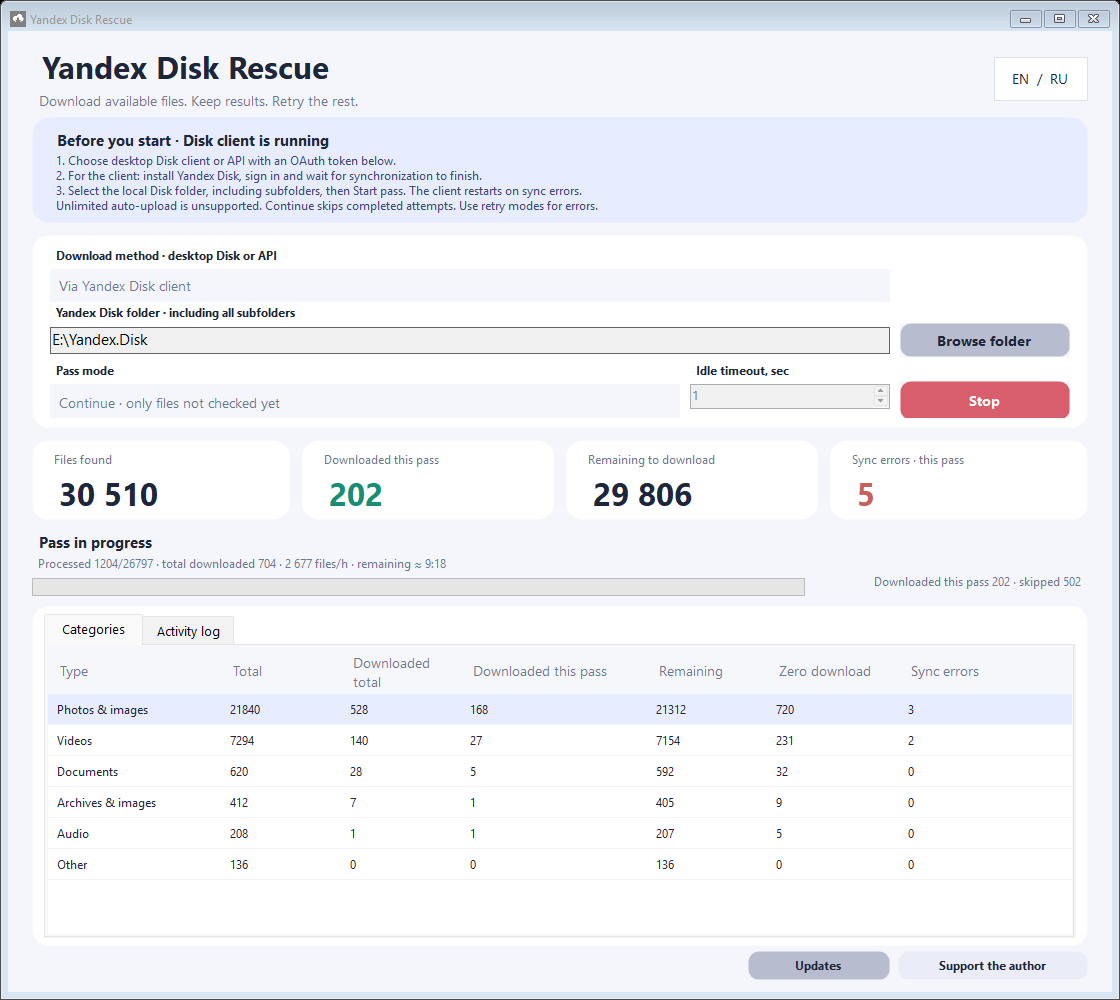
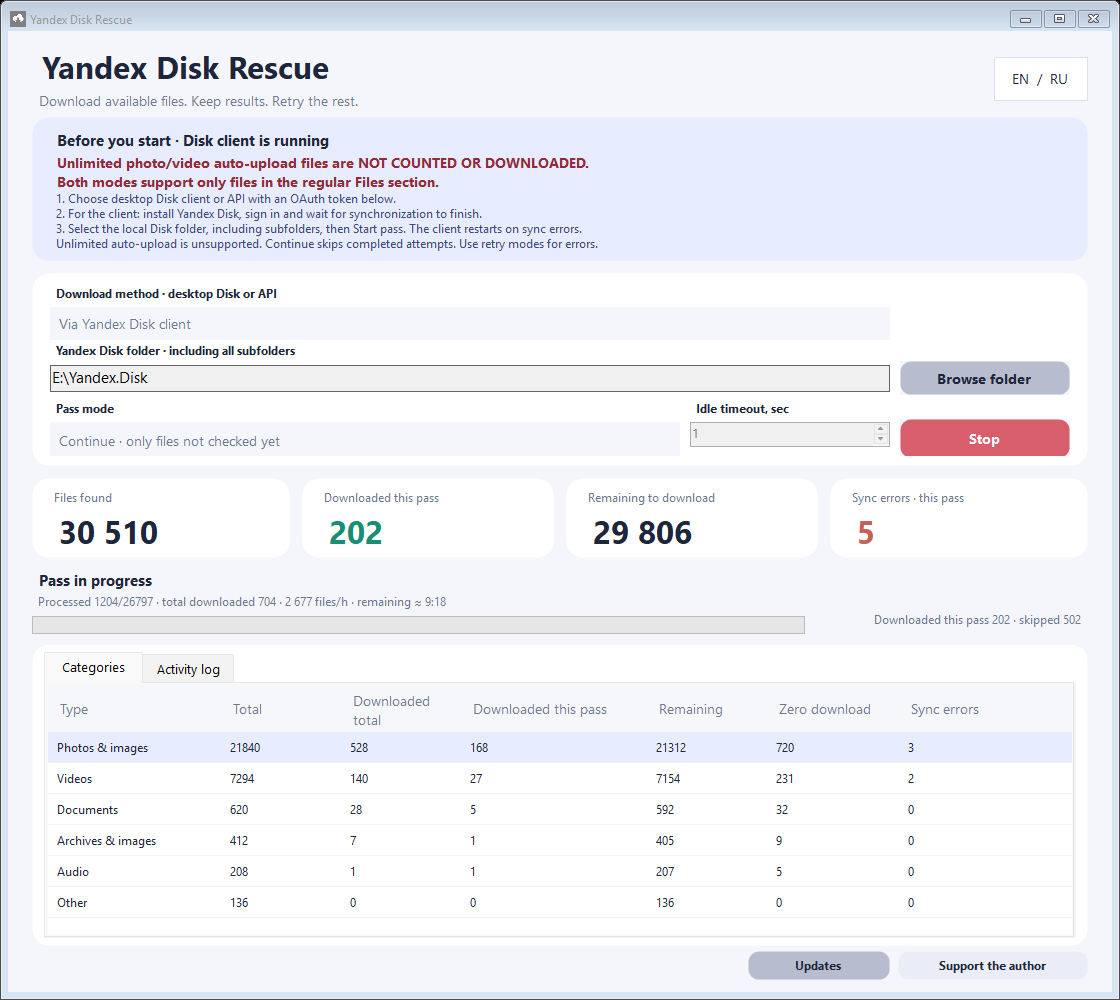
Release v0.2.0: OAuth API, cached inventory and resumable processing

diff --git a/src/MainForm.cs b/src/MainForm.cs
@@ -50,7 +50,7 @@ namespace DiskRescue {
         NumericUpDown idle;
         FlatButton browse, start, update, support;
         Button language;
-        Label subtitle, guideTitle, guideText, folderCaption, modeCaption, idleCaption, phase, detail, available, footer;
+        Label subtitle, guideTitle, guideText, unlimitedWarning, folderCaption, modeCaption, idleCaption, phase, detail, available, footer;
         Label modeReadout, methodReadout;
         LinkLabel tokenHelp;
         Label apiListCaption, apiListReadout;
@@ -83,7 +83,7 @@ namespace DiskRescue {
         RoundPanel Card() { return new RoundPanel { Dock=DockStyle.Fill, Margin=new Padding(0,0,0,12) }; }
         void Build() {
             TableLayoutPanel page=Table(1);pageGrid=page; page.Padding=new Padding(24,14,24,12); page.RowCount=7;
-            foreach(float h in new float[]{72,118,150,90,76}) page.RowStyles.Add(new RowStyle(SizeType.Absolute,h));
+            foreach(float h in new float[]{72,156,150,90,76}) page.RowStyles.Add(new RowStyle(SizeType.Absolute,h));
             page.RowStyles.Add(new RowStyle(SizeType.Percent,100)); page.RowStyles.Add(new RowStyle(SizeType.Absolute,34)); Controls.Add(page);
             TableLayoutPanel header=Table(2); header.ColumnStyles.Add(new ColumnStyle(SizeType.Percent,100)); header.ColumnStyles.Add(new ColumnStyle(SizeType.Absolute,100));
             header.RowCount=1;header.RowStyles.Add(new RowStyle(SizeType.Percent,100));
@@ -93,9 +93,9 @@ namespace DiskRescue {
             language.Click += delegate { ru=!ru; settings.Language=ru?"ru":"en"; SaveSettings(); Translate(); Render(engine.Latest); };
             header.Controls.Add(brand,0,0); header.Controls.Add(language,1,0); page.Controls.Add(header,0,0);
             RoundPanel guide=Card(); guide.Fill=Color.FromArgb(231,236,255); guide.Padding=new Padding(18,10,18,10);
-            TableLayoutPanel guideRows=Table(1); guideRows.RowCount=2; guideRows.RowStyles.Add(new RowStyle(SizeType.Absolute,26)); guideRows.RowStyles.Add(new RowStyle(SizeType.Percent,100));
+            TableLayoutPanel guideRows=Table(1); guideRows.RowCount=3; guideRows.RowStyles.Add(new RowStyle(SizeType.Absolute,26));guideRows.RowStyles.Add(new RowStyle(SizeType.Absolute,38)); guideRows.RowStyles.Add(new RowStyle(SizeType.Percent,100));
             guideTitle=Label("",11,true); guideText=Label("",9,false); guideText.ForeColor=Color.FromArgb(60,73,118);
-            guideRows.Controls.Add(guideTitle,0,0); guideRows.Controls.Add(guideText,0,1); guide.Controls.Add(guideRows); page.Controls.Add(guide,0,1);
+            unlimitedWarning=Label("",10,true);unlimitedWarning.ForeColor=Color.FromArgb(145,43,58);guideRows.Controls.Add(guideTitle,0,0);guideRows.Controls.Add(unlimitedWarning,0,1);guideRows.Controls.Add(guideText,0,2); guide.Controls.Add(guideRows); page.Controls.Add(guide,0,1);
             RoundPanel setup=Card(); setup.Padding=new Padding(18,10,18,10); TableLayoutPanel config=Table(3);setupGrid=config; config.RowCount=7;
             config.ColumnStyles.Add(new ColumnStyle(SizeType.Percent,100)); config.ColumnStyles.Add(new ColumnStyle(SizeType.Absolute,210)); config.ColumnStyles.Add(new ColumnStyle(SizeType.Absolute,170));
             config.RowStyles.Add(new RowStyle(SizeType.Absolute,21));config.RowStyles.Add(new RowStyle(SizeType.Absolute,36));config.RowStyles.Add(new RowStyle(SizeType.Absolute,60));config.RowStyles.Add(new RowStyle(SizeType.Absolute,21)); config.RowStyles.Add(new RowStyle(SizeType.Absolute,36)); config.RowStyles.Add(new RowStyle(SizeType.Absolute,22)); config.RowStyles.Add(new RowStyle(SizeType.Absolute,40));
@@ -169,6 +169,7 @@ namespace DiskRescue {
             g.RowTemplate.Height=31;g.ColumnHeadersHeight=34;g.GridColor=Color.FromArgb(241,243,249);return g;
         }
         void Translate() {
+            unlimitedWarning.Text=T("Файлы из безлимитной автозагрузки фото и видео НЕ УЧИТЫВАЮТСЯ И НЕ СКАЧИВАЮТСЯ.\nВ обоих режимах поддерживаются только файлы из обычного раздела «Файлы».","Unlimited photo/video auto-upload files are NOT COUNTED OR DOWNLOADED.\nBoth modes support only files in the regular Files section.");
             translating=true;method.Items.Clear();method.Items.AddRange(new object[]{T("Через клиент Яндекс Диска","Via Yandex Disk client"),T("Через API · OAuth-токен","Via API · OAuth token")});method.SelectedIndex=settings.UseApi?1:0;translating=false;
             methodCaption.Text=T("Способ скачивания · Диск на компьютере или API","Download method · desktop Disk or API");apiCaption.Text=T("OAuth-токен · хранится зашифрованно Windows","OAuth token · encrypted by Windows");remoteCaption.Text=T("Облачная папка · disk:/ — весь Диск","Cloud folder · disk:/ — whole Disk");
             int selectedList=apiList.SelectedIndex<0?(settings.UseCachedApiList?1:0):apiList.SelectedIndex;apiList.Items.Clear();apiList.Items.AddRange(new object[]{T("Обновить список с Диска · найти новые и изменённые файлы","Refresh list from Disk · find new and changed files"),T("Продолжить по сохранённому списку · без повторного сканирования","Continue with saved list · skip rescanning")});apiList.SelectedIndex=selectedList;apiListCaption.Text=T("Список файлов · только для API","File list · API only");

diff --git a/RELEASE-NOTES.md b/RELEASE-NOTES.md
@@ -1,5 +1,8 @@
 # Yandex Disk Rescue v0.2.0
 
+**Важно: файлы, загруженные через безлимитную автозагрузку фото и видео, не учитываются и не скачиваются — ни через клиент Диска, ни через API. Поддерживаются только файлы из обычного раздела «Файлы».**
+
+
 Два способа скачивания: через клиент Яндекс Диска на компьютере или напрямую через API.
 
 **API может работать быстрее:** ему не нужны очередь и перезапуски клиента Диска. Фактическая скорость зависит от сервиса и соединения.

diff --git a/DESCRIPTION.ru.md b/DESCRIPTION.ru.md
@@ -1,3 +1,5 @@
+**Важно: файлы, загруженные через безлимитную автозагрузку фото и видео, не учитываются и не скачиваются — ни через клиент Диска, ни через API. Поддерживаются только файлы из обычного раздела «Файлы».**
+
 Yandex Disk Rescue — скачивание доступных файлов через клиент Яндекс Диска или напрямую через API.
 
 API использует OAuth-токен Яндекса и может быть быстрее: не требует очереди и перезапусков настольного клиента. Токен: https://yandex.ru/dev/disk/poligon/

diff --git a/README.md b/README.md
@@ -1,4 +1,7 @@
 # Yandex Disk Rescue
+**Важно: файлы, загруженные через безлимитную автозагрузку фото и видео, не учитываются и не скачиваются — ни через клиент Диска, ни через API. Поддерживаются только файлы из обычного раздела «Файлы».**
+
+
 
 [![Скачать для Windows x64](https://img.shields.io/badge/Скачать_для_Windows_x64-ZIP-5965E9?style=for-the-badge&logo=windows)](https://github.com/fefenke/Yandex-Disk-Rescue/releases/download/v0.2.0/YandexDiskRescue-win-x64.zip)
 

diff --git a/README.en.md b/README.en.md
@@ -1,4 +1,7 @@
 # Yandex Disk Rescue
+**Important: photos and videos stored through unlimited auto-upload are not counted or downloaded, in either desktop-client or API mode. Only files in the regular Files section are supported.**
+
+
 
 [![Download for Windows x64](https://img.shields.io/badge/Download_for_Windows_x64-ZIP-5965E9?style=for-the-badge&logo=windows)](https://github.com/fefenke/Yandex-Disk-Rescue/releases/download/v0.2.0/YandexDiskRescue-win-x64.zip)
 
